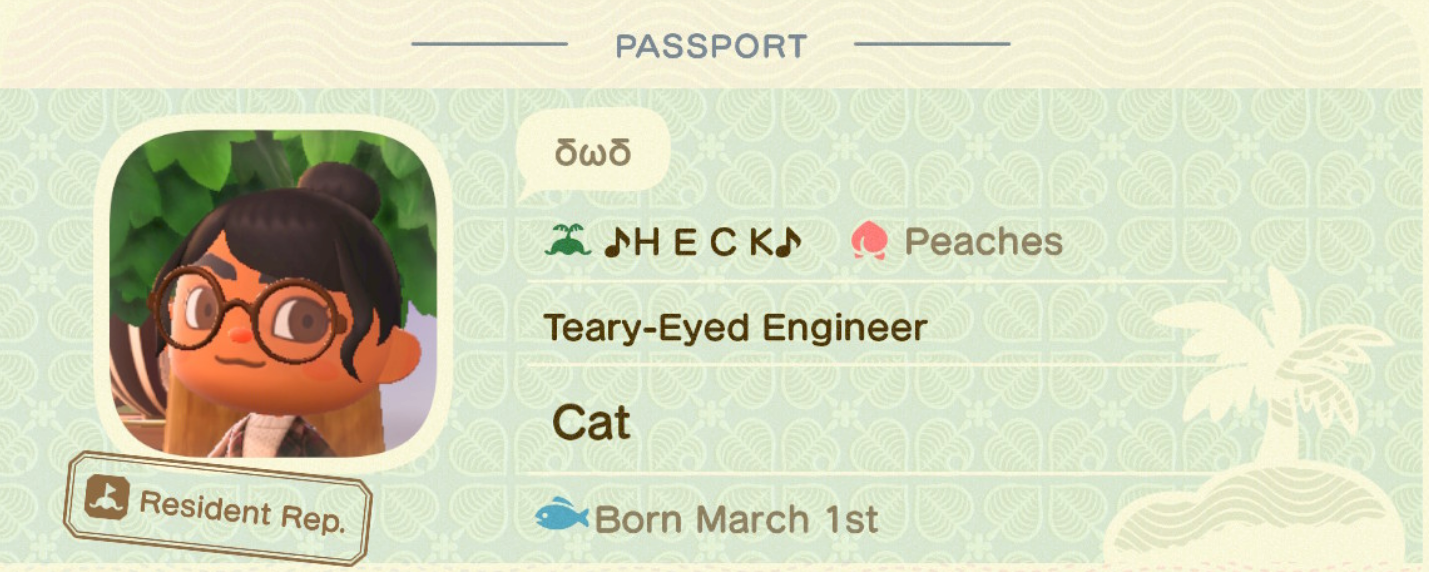
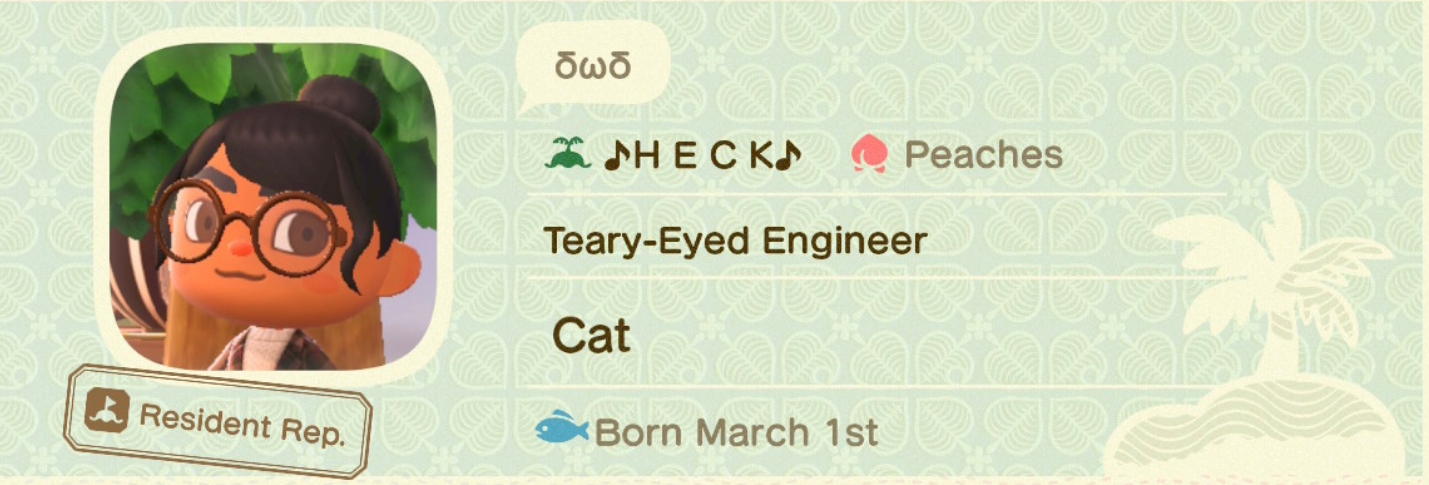
updated spacing and stuff

diff --git a/src/components/About/index.js b/src/components/About/index.js
@@ -10,40 +10,39 @@ const About = () => {
                     <h1> About </h1>
                 </div>
                 <img className="passport-img" src={Passport} alt="Animal Crossing Passport" />
-               
-                <div>
-                    <h3>Currently</h3>
-                    <article>
-                        <div>
-                            <span>
-                                <i className="fas fa-map-marker-alt fa-lg" aria-label="Location"></i>
-                                &nbsp;&nbsp; San Francisco, Bay Area, CA
-                            </span>
-                        </div>
-                        <div>
-                            <span>
-                                <i className="fas fa-book" aria-label="Studying"></i>
-                                &nbsp;&nbsp; Studying React and for technical interviews
-                            </span>
-                        </div>
-                        <div>
-                            <span>
-                                <i className="fas fa-gamepad fa-lg" aria-label="Playing"></i>
-                                &nbsp;&nbsp; Animal Crossing: New Horizons
-                            </span>
-                        </div>
-                        <div>
-                            <span>
-                                <i className="far fa-building fa-lg" aria-label="Looking for work"></i>
-                                &nbsp;&nbsp; Available for new opportunities!
-                            </span>
-                        </div>
-                    </article>
-                </div>
+            </section>
+            <section>
+                <h2>Currently</h2>
+                <article>
+                    <div>
+                        <span>
+                            <i className="fas fa-map-marker-alt fa-lg" aria-label="Location"></i>
+                            &nbsp;&nbsp; San Francisco, Bay Area, CA
+                        </span>
+                    </div>
+                    <div>
+                        <span>
+                            <i className="fas fa-book" aria-label="Studying"></i>
+                            &nbsp;&nbsp; Studying React and Algorithms
+                        </span>
+                    </div>
+                    <div>
+                        <span>
+                            <i className="fas fa-gamepad fa-lg" aria-label="Playing"></i>
+                            &nbsp;&nbsp; Animal Crossing: New Horizons
+                        </span>
+                    </div>
+                    <div>
+                        <span>
+                            <i className="far fa-building fa-lg" aria-label="Looking for work"></i>
+                            &nbsp;&nbsp; Available for new opportunities!
+                        </span>
+                    </div>
+                </article>
             </section>
             <section className="About-stack">
                 <h2>Stack</h2>
-                <div>
+                <article>
                     <span className="icon">
                         <i className="fab fa-js-square fa-3x"></i>
                     </span>
@@ -62,7 +61,7 @@ const About = () => {
                     <span className="icon">
                         <i className="fab fa-sass fa-3x"></i>
                     </span>
-                </div>
+                </article>
                 <article>
                     <p> 
                         I am a web developer whose strengths lay in

diff --git a/src/components/About/About.scss b/src/components/About/About.scss
@@ -35,7 +35,7 @@ $button-bgcolor-hover:  rgba(74,66,109, 1);
     section {
     z-index: -1;
     width: 50%;
-    margin: 10% auto;
+    margin: 13% auto 0 auto;
     }
     article {
         margin-left: 3em;
